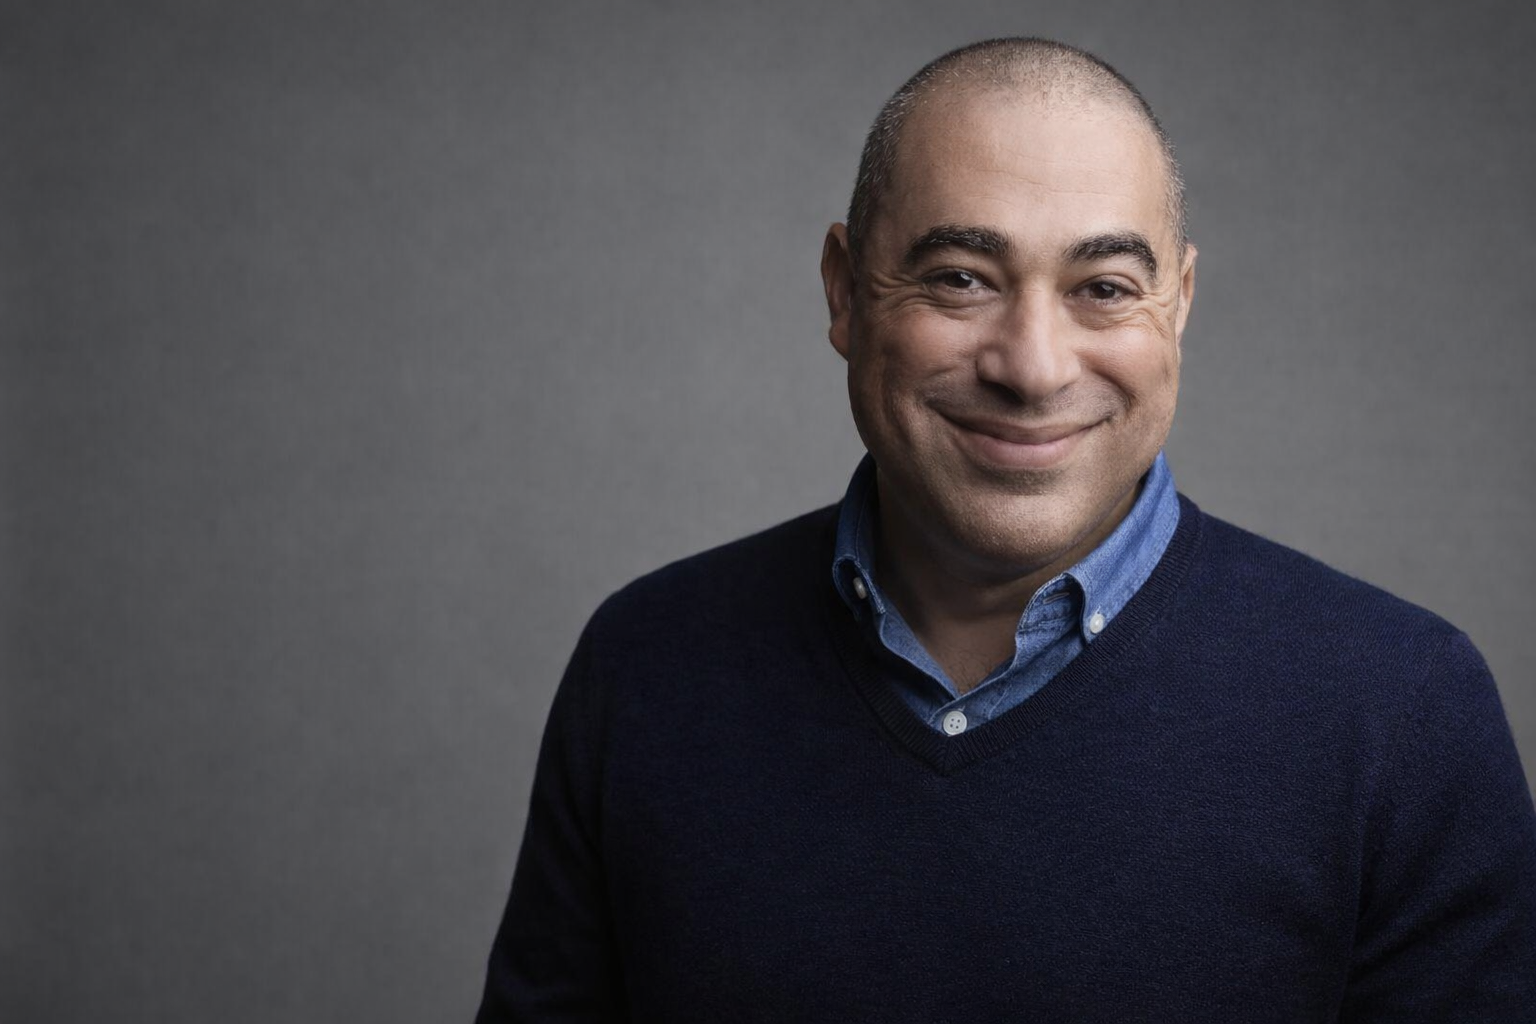
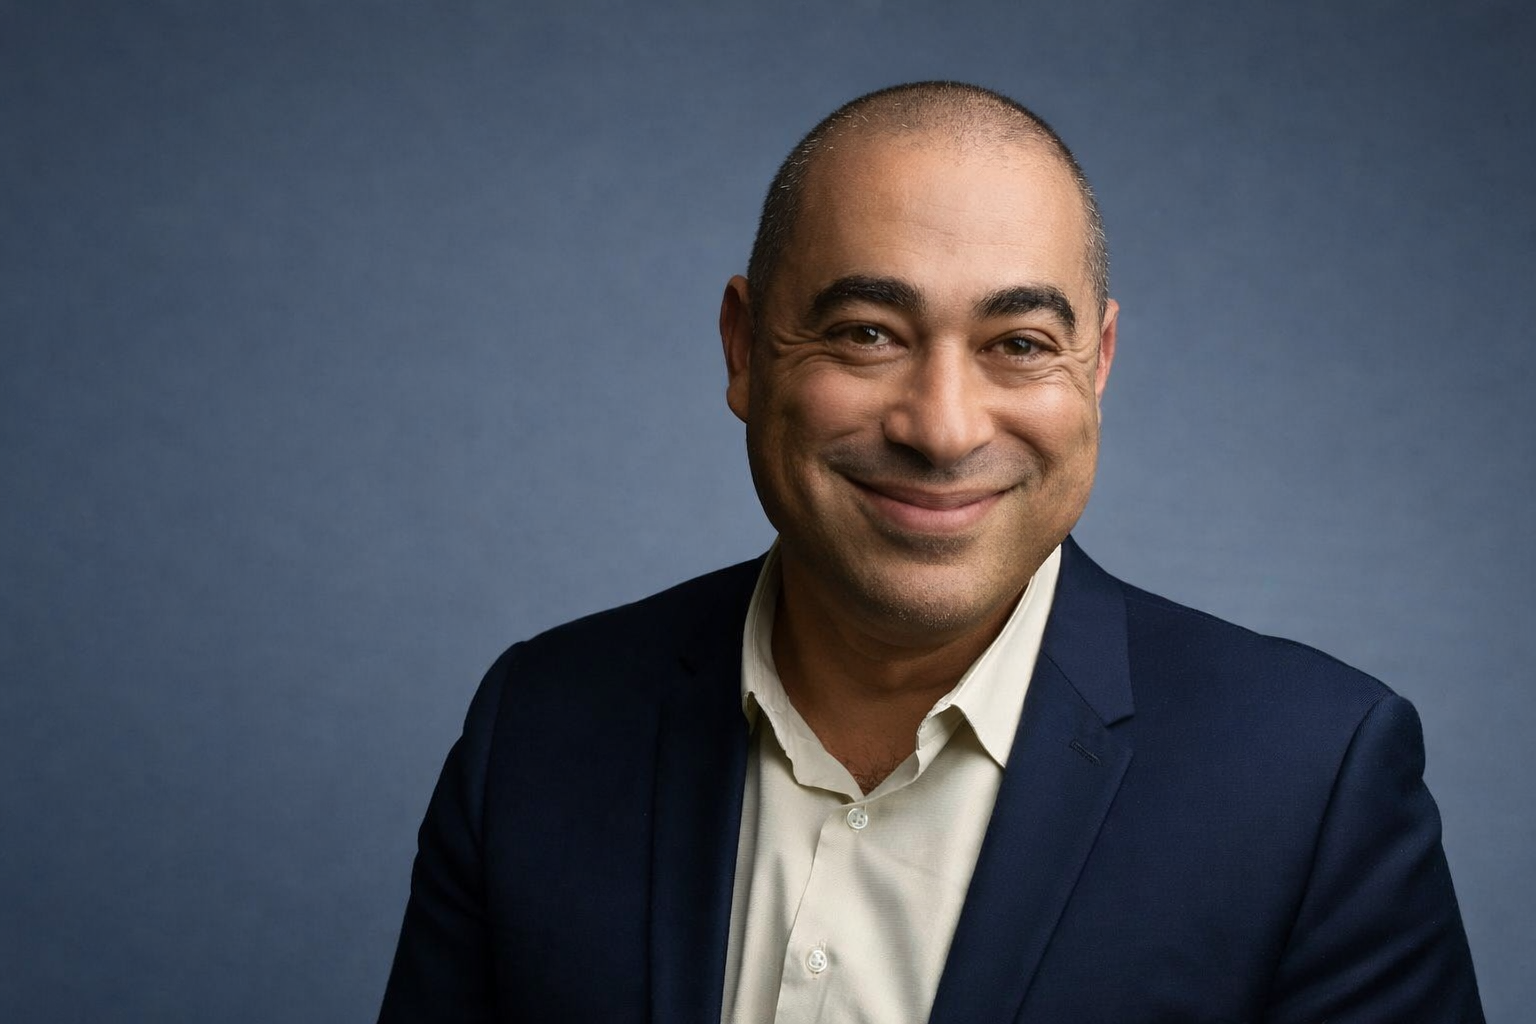
Replace profile photo with blue background headshot

diff --git a/style.css b/style.css
@@ -257,7 +257,7 @@ strong {
     height: 180px;
     border-radius: 50%;
     object-fit: cover;
-    object-position: 42% 18%;
+    object-position: center 20%;
     border: 3px solid rgba(200, 168, 78, 0.4);
     box-shadow: 0 10px 40px rgba(0, 0, 0, 0.3);
 }
